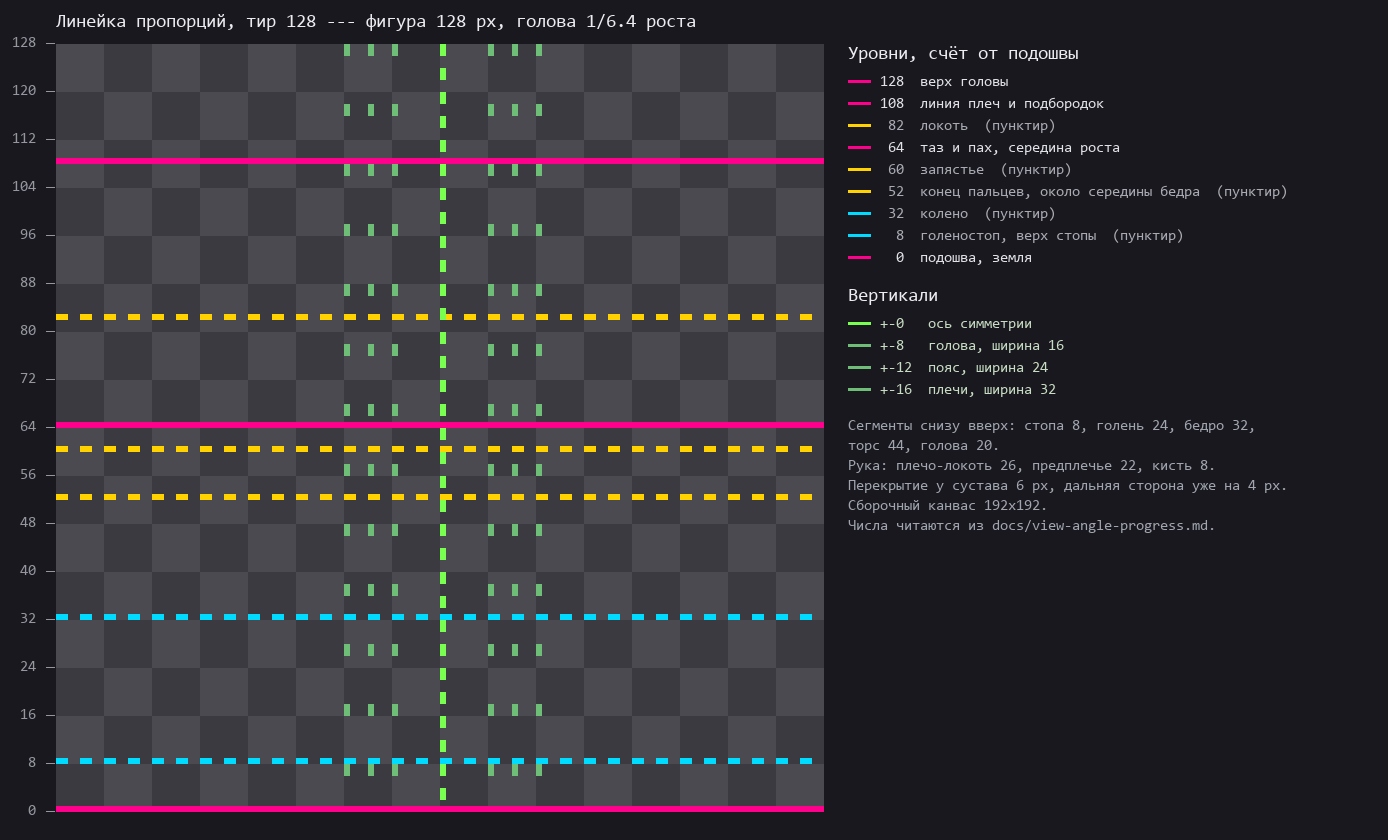
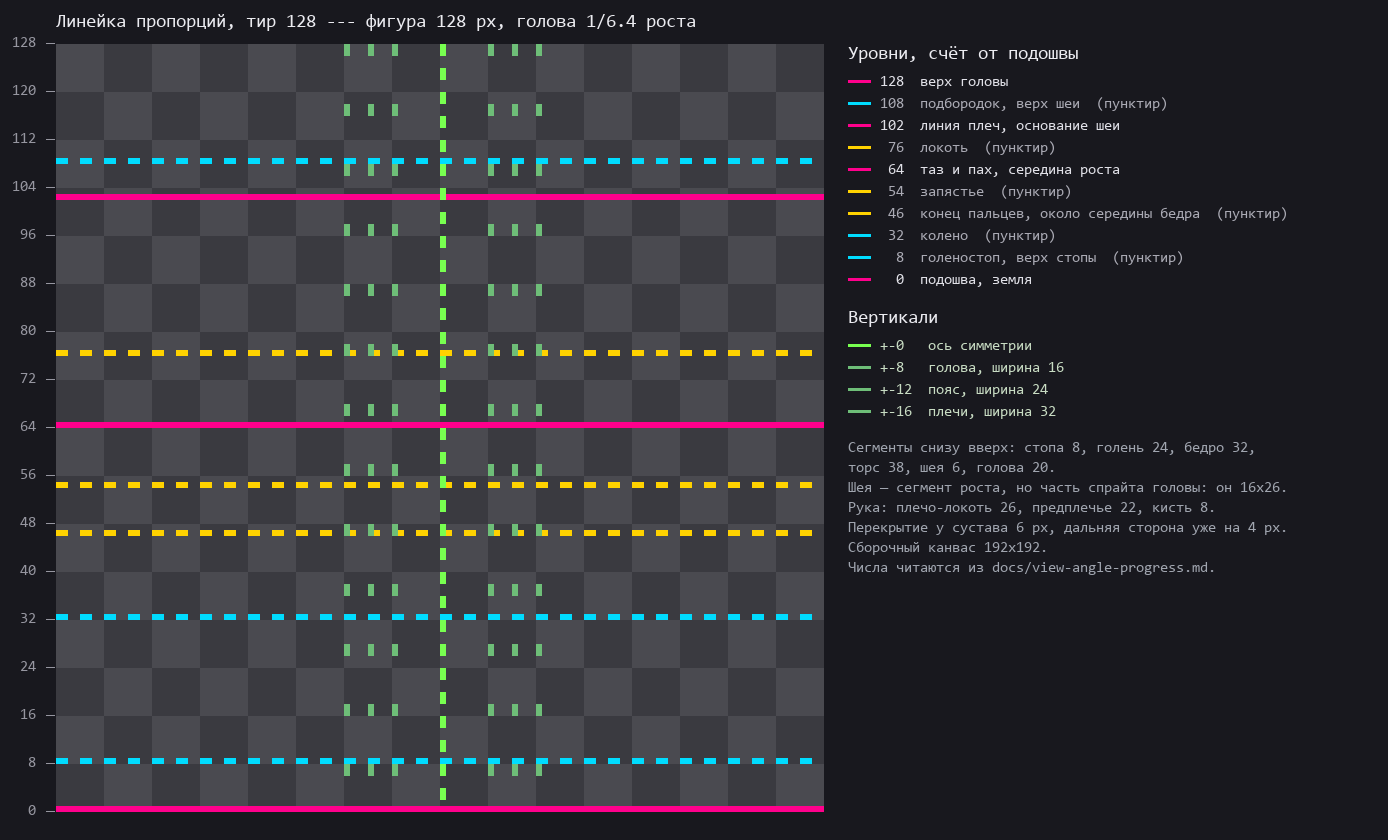
feat(art): the human moves to tier 128, and the neck joins the grid
Measuring the work-in-progress figure showed it sitting between tiers: 32 px
shoulders and a 16 px wide skull are exactly tier 128's widths, while the
heights matched 96 and the real height came out at 116. Widths are the
expensive side to redraw — a 12 px wide head cannot carry the face that is
already there — so heights go up rather than widths down.

The neck is why the height drifted: it was drawn as 7 px on top of a grid
that has no neck at all. Give it a segment (2/4/6) that takes its height
from the torso, and pin down where it belongs: the neck rides the HEAD
sprite, not the torso. There is no Neck bone and there will not be one — a
6 px bone moves its tip by one pixel at 10 degrees. Rotating Head, whose
pivot sits at the neck base, tilts skull and neck together.

The generator learns the neck segment and cross-checks it: the head sprite
must be exactly head+neck tall, so the two tables cannot drift apart.

Freeing the "large" label opens a question with no verdict yet — whether
units that must look bigger than a human need a fourth tier — filed in
open-forks rather than answered here.

diff --git a/scripts/art-proportion-ruler.py b/scripts/art-proportion-ruler.py
@@ -32,7 +32,8 @@ GRID_DOC = "docs/view-angle-progress.md"
 OUT_DIR = "docs/art-refs/view-angle/drawing/rulers"
 
 # Кисть врисована в предплечье, отдельной строки в таблице частей нет ---
-# число взято из прозы раздела. Ключ --- рост фигуры тира.
+# числа объявлены прозой раздела ("Кисть по тирам --- 4 · 6 · 8"). Разбирать
+# прозу регуляркой хрупко, поэтому здесь осознанный дубль трёх чисел.
 HAND_LENGTH = {64: 4, 96: 6, 128: 8}
 
 # Пояс уже плеч на четверть --- правило сетки, сформулированное словами
@@ -132,7 +133,7 @@ def read_grid(repo: Path) -> dict[int, dict]:
     # поэтому сегменты ищем по именам колонок, а не по их порядку.
     header = [c.lower() for c in heights[0]]
     segments = {}
-    for name in ("голова", "торс", "бедро", "голень", "стопа", "сумма"):
+    for name in ("голова", "шея", "торс", "бедро", "голень", "стопа", "сумма"):
         index = next((i for i, cell in enumerate(header) if cell.startswith(name)), None)
         if index is None:
             raise GridError(f"в вертикальном разборе нет колонки {name!r}")
@@ -150,7 +151,7 @@ def read_grid(repo: Path) -> dict[int, dict]:
         grid[tier] = dict(
             figure=figure,
             foot=seg["стопа"], shin=seg["голень"], thigh=seg["бедро"],
-            torso=seg["торс"], head=seg["голова"],
+            torso=seg["торс"], neck=seg["шея"], head=seg["голова"],
         )
 
     parts_col = _tier_columns(parts[0])
@@ -167,9 +168,12 @@ def read_grid(repo: Path) -> dict[int, dict]:
 
         # Таблица частей и вертикальный разбор описывают одно и то же тело ---
         # расхождение значит, что одну из них правили в отрыве от другой.
-        if h_head != t["head"] or h_torso != t["torso"]:
-            raise GridError(f"тир {tier}: голова/торс в таблице частей ({h_head}/{h_torso}) "
-                            f"не совпали с разбором роста ({t['head']}/{t['torso']})")
+        # Спрайт головы несёт и шею, поэтому он выше сегмента головы ровно на неё.
+        if h_head != t["head"] + t["neck"] or h_torso != t["torso"]:
+            raise GridError(
+                f"тир {tier}: части говорят голова+шея {h_head} и торс {h_torso}, "
+                f"разбор роста — {t['head']}+{t['neck']}={t['head'] + t['neck']} "
+                f"и торс {t['torso']}")
         if tier not in HAND_LENGTH:
             raise GridError(f"тир {tier}: длина кисти не объявлена в HAND_LENGTH")
 
@@ -199,7 +203,8 @@ def levels(t: dict) -> list[tuple[int, str, tuple[int, int, int, int], bool]]:
     knee = ankle + t["shin"]
     hip = knee + t["thigh"]
     shoulders = hip + t["torso"]
-    crown = shoulders + t["head"]
+    chin = shoulders + t["neck"]
+    crown = chin + t["head"]
 
     upper, fore, hand = t["arm"]
     elbow = shoulders - upper
@@ -214,7 +219,8 @@ def levels(t: dict) -> list[tuple[int, str, tuple[int, int, int, int], bool]]:
         (wrist, "запястье", COLOR_ARM, False),
         (hip, "таз и пах, середина роста", COLOR_KEY, True),
         (elbow, "локоть", COLOR_ARM, False),
-        (shoulders, "линия плеч и подбородок", COLOR_KEY, True),
+        (shoulders, "линия плеч, основание шеи", COLOR_KEY, True),
+        (chin, "подбородок, верх шеи", COLOR_SEG, False),
         (crown, "верх головы", COLOR_KEY, True),
     ]
 
@@ -304,7 +310,9 @@ def render_legend(t: dict, zoom: int = 6) -> Image.Image:
 
     footer = (f"Сегменты снизу вверх: стопа {t['foot']}, голень {t['shin']}, "
               f"бедро {t['thigh']},",
-              f"торс {t['torso']}, голова {t['head']}.",
+              f"торс {t['torso']}, шея {t['neck']}, голова {t['head']}.",
+              f"Шея — сегмент роста, но часть спрайта головы: он {t['w_head']}x"
+              f"{t['head'] + t['neck']}.",
               f"Рука: плечо-локоть {t['arm'][0]}, предплечье {t['arm'][1]}, "
               f"кисть {t['arm'][2]}.",
               f"Перекрытие у сустава {t['overlap']} px, дальняя сторона уже "

diff --git a/docs/wiki/gdd/00-meta/journal-adr.md b/docs/wiki/gdd/00-meta/journal-adr.md
@@ -28,6 +28,8 @@ updated: 2026-07-31
 
 ## Оглавление
 
+- [[#2026-08-01 — человек-герой становится тиром 128; шея входит в сетку сегментом роста]]
+- [[#2026-08-01 — Тиров врага четыре, а не три; два разбойника берутся, стилер отклонён]]
 - [[#2026-07-31 (вечер, 26) — Гоблин-кривляка: плоский стат регена, цель только с маной, канал окнами]]
 - [[#2026-07-31 (вечер, 25) — Обычному врагу разрешена ОДНА простая активка]]
 - [[#2026-07-31 (вечер, 24) — Мокрый уходит Потоку; анти-хил обычно от яда, но не тождество]]
@@ -126,6 +128,79 @@ updated: 2026-07-31
 - [[#Принципы (не размениваются без явного пересмотра)]]
 
 ---
+
+## 2026-08-01 — человек-герой становится тиром 128; шея входит в сетку сегментом роста
+
+**Решение Макса** по размеру фигуры: выбран вариант «Да, человек теперь 128» из предложенных
+(до этого канон держал человека и героев на 96). Поводом стал замер его рабочей фигуры в
+`Aseprite/Bone Animations/Pixel Hero - Parts - Workbench.aseprite`: плечи 32 и голова шириной 16 —
+ровно канонные **ширины** тира 128, при высотах уровня 96 и фактическом росте 116, то есть между
+тирами. Ширину править дороже высоты (на голове 12 px тира 96 нарисованное лицо не собирается —
+одни глаза занимают 11 px), поэтому тянем высоты вверх, а не ширины вниз.
+
+Следствия, каждое обязательно к учёту:
+
+- **Фигура человека теперь крупнее стилевого ориентира.** У героя Songs of Conquest ~102 px, у нас
+  128. SoC остаётся рефом по раздаче пикселей и пропорции, но не по абсолютному размеру.
+- Тир 96 занимают юниты помельче, ярлык «большой» освободился — **нужен ли четвёртый размерный тир
+  под крупных врагов, не решено** и ушло в [[gdd/00-meta/open-forks|развилки]].
+- Риг измерен на старой болванке и после перерисовки **перемеряется**, а не подгоняется.
+
+**Шея — сегмент роста, но часть спрайта головы.** Вердикт инженерный, а не ГД: поводом был вопрос
+Макса «Как шею анимировать, скажи мне? Хихи. Будем как просто чатсь торса? тогда это просто в body?
+Или что?». Ответ — ни то, ни другое:
+
+| Тир | Шея | Торс было → станет |
+|---|---|---|
+| 64 | 2 | 20 → 18 |
+| 96 | 4 | 32 → 28 |
+| **128** | **6** | **44 → 38** |
+
+Шея забирает высоту у торса, а не добавляет к росту: именно её отсутствие в разборе и увело
+рабочую фигуру на 116. Отдельной кости `Neck` в риге нет и не будет — кость длиной 6 px бесполезна
+(поворот на 10° сдвигает верх на один пиксель, а пиксели на такой короткой кости рвутся). Шея
+анимируется вращением кости `Head`, чей пивот стоит в её основании, поэтому череп и шея наклоняются
+вместе. В спрайт торса шею класть нельзя: при наклоне головы она осталась бы стоять колом и стык
+открылся бы.
+
+**Владелец правды:** раздел «Сетка размеров частей» в `docs/view-angle-progress.md`; линейки под
+рисование генерируются оттуда скриптом `scripts/art-proportion-ruler.py`, который падает при
+расхождении таблиц. Кода это не трогает: в риге кости тела — `Hips`, `Torso`, `Head`
+(`RigProfile.cs`), и они не меняются.
+
+## 2026-08-01 — Тиров врага четыре, а не три; два разбойника берутся, стилер отклонён
+
+**Решение Макса** в ответ на вопрос о тире дуэлянта и убийцы. Сказано: «Все - стандарт. У нас будет 4
+типа все-таки. 1 - треш (просто без способностей особо как раз или оч слабые пассивки), 2 - обычки,
+3 - элитка (или как-то иначе назвать. Это не главный бой в элитном сражении, а просто сильный юнит)
+4 - специальный (вот тут как раз мини боссы, боссы и тп)».
+
+**Ось Тип получает четыре значения** вместо трёх (было Обычный / Элита / Босс):
+
+| Тир | Кто это |
+|---|---|
+| **Треш** | без способностей вовсе или очень слабые пассивки |
+| **Обычный** | «обычки» — рабочая масса встречи |
+| **Элита** | просто сильный юнит, **не** главный бой элитного сражения |
+| **Специальный** | мини-боссы, боссы и подобное |
+
+Уточнение про Элиту важно и снимает прежнюю двусмысленность: «элита» больше не намекает на элитный
+энкаунтер, это про силу самого юнита. **Имя третьего тира открыто** («или как-то иначе назвать») — ушло
+в [[gdd/00-meta/open-forks|развилки]].
+
+Кода это не трогает: тира врага в `EnemyData` нет вовсе, ось живёт во frontmatter карточек
+(`enemy_group`), а движок различает силу через `_threatPoints` и стат-блок.
+
+**Прочие вердикты того же хода:**
+
+1. **Разбойник-дуэлянт и разбойник-убийца — оба «стандарт»** (Обычный), несмотря на три правила у
+   первого и два у второго.
+2. **Разбойник — стилер предметов НЕ делается.** Сказано: «Его НЕ делаем». Заявка уходит в
+   [[gdd/00-meta/closed-forks|закрытые]]; механики кражи в движке нет, и заводить её не будем.
+3. **Кровь убийцы живёт 3 секунды, а не 5** — берём срок из ассета `effect.bleed`, чтобы у длительности
+   порции остался один владелец. Заявка говорила «на 5 сек»; число в карточке будет `3`.
+4. **Маскировка убийцы — средняя ступень**, как у гоблина-убийцы: разбойник отличается от него кровью
+   и уроном, а не качеством прятки.
 
 ## 2026-07-31 (вечер, 26) — Гоблин-кривляка: плоский стат регена, цель только с маной, канал окнами
 

diff --git a/docs/view-angle-progress.md b/docs/view-angle-progress.md
@@ -173,49 +173,64 @@
 ## Сетка размеров частей (1×, до экспортного апскейла)
 
 Три тира по высоте фигуры от стоп до верха головы (шкала Макса, 2026-07-29):
-**64 мелкий · 96 крупный · 128 большой**. Человек-юнит и герои — **96**, это же масштаб
-Songs of Conquest.
+**64 мелкий · 96 средний · 128 крупный**. Человек-юнит и герои — **128**
+(решено 2026-08-01, см. журнал ГД).
+
+**Следствие, которое надо знать: фигура человека теперь КРУПНЕЕ стилевого ориентира.** У героя
+Songs of Conquest фигура ~102 px, у нас 128. Ориентиром SoC остаётся по раздаче пикселей и
+пропорции, но не по абсолютному размеру. Тир 96 занимают юниты помельче, 64 — мелочь; ярлык
+«большой» освободился под возможный четвёртый тир для крупных врагов.
 
 **Пропорции — около-реалистичные, слабая стилизация (правка 2026-07-29 по требованию Макса).**
-Голова = **1/6 роста**, пах на середине роста, то есть ноги = половина фигуры. Замер по рефу:
-у героя SoC фигура ~102 px при голове ~17.5 px, то есть 1/5.8 — ровно этот регистр. Чистый
-реализм (1/7.5) не берём: на 96 px лицо в три четверти на такой голове не читается.
+Голова = **1/6 роста** (на крупном тире 1/6.4), пах на середине роста, то есть ноги = половина
+фигуры. Замер по рефу: у героя SoC фигура ~102 px при голове ~17.5 px, то есть 1/5.8 — ровно
+этот регистр. Чистый реализм (1/7.5) не берём: на 96 px лицо в три четверти на такой голове не
+читается.
 
 Первая версия сетки была стилизованной (голова 1/4, ноги 3/8) — снята.
 
 Вертикальный разбор роста:
 
-| Тир | Голова | Торс (плечи→таз) | Бедро | Голень | Стопа | Сумма |
-|---|---|---|---|---|---|---|
-| 64 мелкий | 12 | 20 | 16 | 12 | 4 | 64 |
-| **96 крупный** | **16** | **32** | **24** | **18** | **6** | **96** |
-| 128 большой | 20 | 44 | 32 | 24 | 8 | 128 |
+| Тир | Голова | Шея | Торс (плечи→таз) | Бедро | Голень | Стопа | Сумма |
+|---|---|---|---|---|---|---|---|
+| 64 мелкий | 12 | 2 | 18 | 16 | 12 | 4 | 64 |
+| 96 средний | 16 | 4 | 28 | 24 | 18 | 6 | 96 |
+| **128 крупный** | **20** | **6** | **38** | **32** | **24** | **8** | **128** |
 
 Мелкий тир чуть стилизованнее по необходимости (голова 1/5.3) — на 64 px иначе не читается.
 
-| Часть | 64 мелкий | **96 крупный** | 128 большой |
+**Шея — сегмент роста, но часть спрайта ГОЛОВЫ** (решено 2026-08-01). Она забирает высоту у
+торса, а не добавляет к росту: до этой правки торс был 20/32/44 и шеи в разборе не было вовсе.
+Отдельной кости `Neck` в риге нет и не будет — кость длиной 6 px бесполезна (поворот на 10°
+сдвигает её верх на один пиксель, а пиксели на такой короткой кости рвутся). Шея анимируется
+вращением кости `Head`, чей пивот стоит в её основании: череп и шея наклоняются вместе, как
+живые. Положить шею в спрайт торса нельзя — при наклоне головы она останется стоять колом и
+стык откроется.
+
+| Часть | 64 мелкий | 96 средний | **128 крупный** |
 |---|---|---|---|
-| Голова | 9×12 | **12×16** | 16×20 |
-| Торс (Ш = плечи, пояс уже на 1/4) | 16×20 | **24×32** | 32×44 |
-| Наплечник ближний | 10×9 | **14×12** | 18×16 |
-| Наплечник дальний | 8×9 | **11×12** | 14×16 |
-| Плечо–локоть | 5×14 | **7×20** | 9×26 |
-| Предплечье (кисть врисована) | 4×11 | **6×16** | 8×22 |
-| Бедро | 8×16 | **12×24** | 16×32 |
-| Голень | 6×12 | **9×18** | 12×24 |
-| Стопа | 10×4 | **14×6** | 18×8 |
-| Меч (клинок / рукоять) | 10×38 | **14×58** (46/12) | 18×76 |
-| Щит круглый | 22×22 | **32×32** | 42×42 |
-| Щит каплевидный | 18×26 | **26×40** | 34×52 |
-| Нагрудник-накладка | 19×22 | **28×34** | 36×44 |
-| Плащ | 20×34 | **30×50** | 40×66 |
-| Подол (висит на бёдрах) | 18×10 | **26×14** | 34×18 |
-| Древко копья / знамени | 4×75 | **6×112** | 8×150 |
-| Флаг | 12×16 | **18×24** | 24×32 |
+| Голова (череп + шея; низ уходит под торс на перекрытие) | 9×14 | 12×20 | **16×26** |
+| Торс (Ш = плечи, пояс уже на 1/4) | 16×18 | 24×28 | **32×38** |
+| Наплечник ближний | 10×9 | 14×12 | **18×16** |
+| Наплечник дальний | 8×9 | 11×12 | **14×16** |
+| Плечо–локоть | 5×14 | 7×20 | **9×26** |
+| Предплечье (кисть врисована) | 4×11 | 6×16 | **8×22** |
+| Бедро | 8×16 | 12×24 | **16×32** |
+| Голень | 6×12 | 9×18 | **12×24** |
+| Стопа | 10×4 | 14×6 | **18×8** |
+| Меч (клинок / рукоять) | 10×38 | 14×58 (46/12) | **18×76** |
+| Щит круглый | 22×22 | 32×32 | **42×42** |
+| Щит каплевидный | 18×26 | 26×40 | **34×52** |
+| Нагрудник-накладка | 19×22 | 28×34 | **36×44** |
+| Плащ | 20×34 | 30×50 | **40×66** |
+| Подол (висит на бёдрах) | 18×10 | 26×14 | **34×18** |
+| Древко копья / знамени | 4×75 | 6×112 | **8×150** |
+| Флаг | 12×16 | 18×24 | **24×32** |
 
 Длина руки складывается в 0.44 роста (плечо 20 + предплечье 16 + кисть 6 при тире 96) — кисть
-доходит до середины бедра, как в живой фигуре. Меч 58 при росте 96 — это метровый клинок при
-человеке 1.7 м.
+доходит до середины бедра, как в живой фигуре. **Кисть по тирам — 4 · 6 · 8**, отдельной строки в
+таблице у неё нет: она врисована в предплечье, но в сумму длины руки входит. Меч 58 при росте 96 —
+это метровый клинок при человеке 1.7 м.
 
 **Правила сетки:**
 

diff --git a/docs/wiki/gdd/00-meta/open-forks.md b/docs/wiki/gdd/00-meta/open-forks.md
@@ -28,6 +28,25 @@ updated: 2026-07-31
 
 # 1. Развилки без вердикта
 
+## Нужен ли четвёртый размерный тир под крупных врагов
+
+**Открылось 2026-08-01** решением «человек-герой = тир 128» ([[journal-adr|журнал]]). Размерная
+шкала была **64 мелкий · 96 крупный · 128 большой**, человек стоял на 96. Теперь человек занял 128,
+и верхний ярлык освободился: юниты, которые должны выглядеть **крупнее человека** — тролль, огр,
+всадник, боссы — упираться в тот же 128 не могут, иначе разница в размере перестанет читаться.
+
+Варианты, ни один не выбран:
+
+| Вариант | Что значит |
+|---|---|
+| **Четвёртый тир (например 192)** | шкала 64 · 96 · 128 · 192; крупные враги получают свой размер, но это новый набор габаритов частей на каждую часть тела |
+| **Крупные враги — нецелый апскейл 128** | ничего не рисуем заново, но пиксель поедет: у нас стилизованный пиксель-арт, нецелый скейл разрешён, и тут он вылезет на силуэте |
+| **Крупные враги = 128, разница через силуэт** | масса, рога, горб вместо роста; дешевле всего, но «большой» перестаёт читаться в бою рядом с человеком |
+
+Решать не срочно: ни одного крупного врага в работе нет. Но выбор влияет на то, сколько строк
+получит таблица частей, поэтому чем раньше, тем меньше переписывания.
+**Владелец сетки** — `docs/view-angle-progress.md`, раздел «Сетка размеров частей».
+
 ## Ритм атаки: Удар / Атака / Комбо
 
 **Заметка Макса 2026-07-30** ([[gdd/00-meta/inbox/2026-07-30|оригинал]]). Три уровня вместо одного:
@@ -121,7 +140,8 @@ updated: 2026-07-31
 - **Разбойник-дуэлянт** (меч) — классическое парирование; при парировании ещё и щит **200 на 3 сек**;
   **+50% урона, если рядом только один враг**.
 - **Разбойник-убийца** — колющий урон, дополнительно **30% урона кровотечением на 5 сек**, Маскировка.
-- **Разбойник — стилер предметов** — гибрид дальник + ближник.
+- ~~**Разбойник — стилер предметов**~~ — **отклонён 2026-08-01** («Его НЕ делаем»). Разбор вариантов
+  и причина — [[gdd/00-meta/closed-forks|закрытые развилки]].
 - **Релик-инженер** — урон молнией, брузер, **бафает предметы** (потребитель стата «сила предметов»).
 - **Носитель линейной атаки** (`2026-07-31/95`, вердикт Макса: «линейная атака нужна»). Форма
   `AreaShape.Line` в данных есть с Фазы 3, но её не объявляет ни один кит — то есть ветка механики стоит
@@ -294,6 +314,24 @@ updated: 2026-07-31
 `docs/balance-issues.md`.
 
 ## Требует вердикта в первую очередь
+
+- **Как назвать третий тир врага.** Ось расширена до четырёх 2026-08-01 (Треш / Обычный / Элита /
+  Специальный), и по слову Макса имя третьего открыто: «элитка (или как-то иначе назвать. Это не главный
+  бой в элитном сражении, а просто сильный юнит)». Пока стоит «Элита» — рабочее имя, не приёмка.
+  Кандидаты без вердикта: «Ветеран» (слышно силу без намёка на энкаунтер), «Сильный», «Ударный».
+
+- **Раскладка пятнадцати готовых врагов по четырём тирам.** До 2026-08-01 тиров было три, и все
+  карточки размечены старой осью: одиннадцать `Обычный`, четыре `Элита`. Тир **Треш** не носит никто —
+  значит либо часть «обычек» на самом деле треш (кандидаты: гоблин-грунт и гоблин-лучник — у обоих нет
+  ни одного навыка), либо треш появится только с новым контентом. Раскладку предлагаю такую, но это
+  `proposed`, не сделано:
+
+  | Тир | Кто | Почему |
+  |---|---|---|
+  | Треш | гоблин-грунт, гоблин-лучник | навыков нет вовсе — ровно определение тира |
+  | Обычный | воин, убийца, шутник, кривляка, волк стаи, три разбойника + дуэлянт и убийца | одна-три простых пассивки или активка без выбора цели |
+  | Элита | командир, маг, наездник, варлок, земляной голем | по одному-двум правилам, меняющим приоритет |
+  | Специальный | три босса фракций | уже так и живут, только ось называлась «Босс» |
 
 - **[[gdd/relics/the-paragon|The Paragon]] ждёт реворка** (твоё слово 2026-07-28): стоимость «Идеальной
   формы» не задана, школа урона автоатаки тоже, детали персонажа не проработаны.
